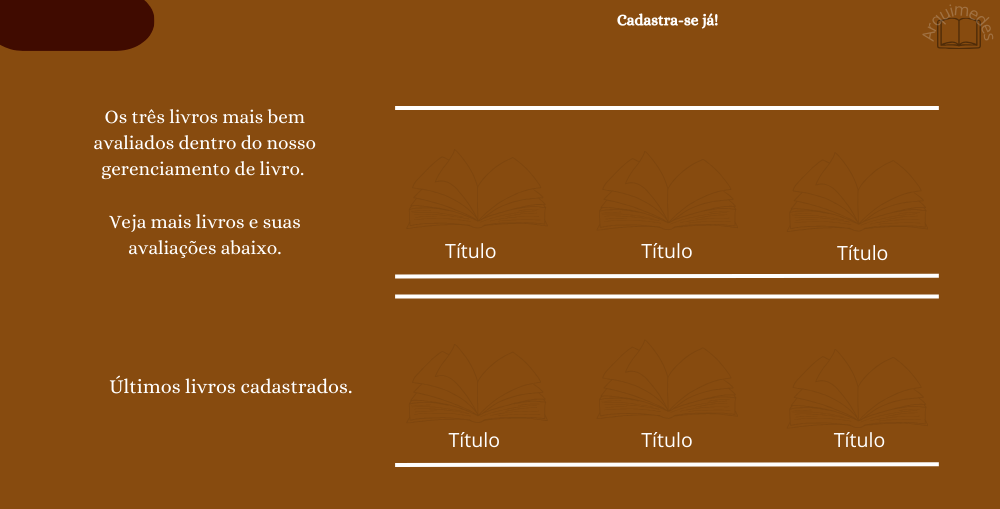
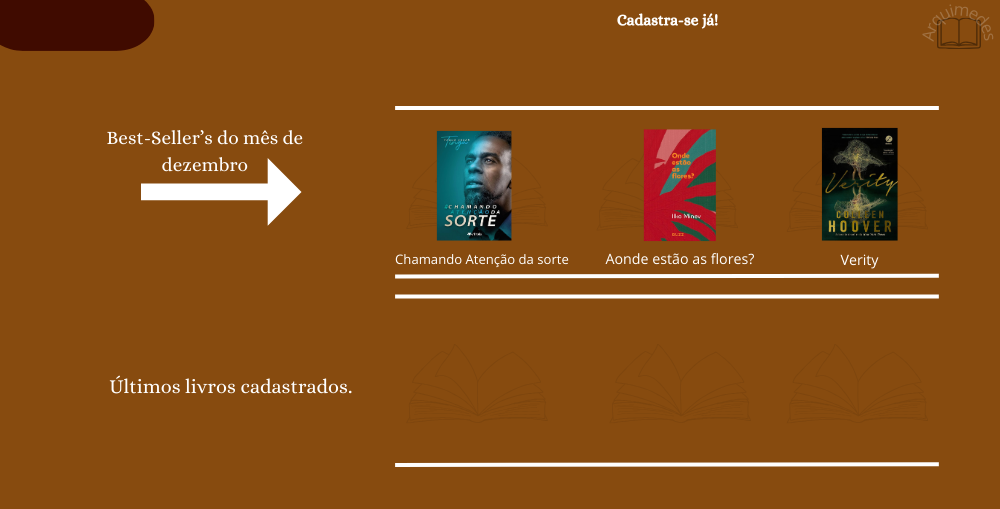
Tela perfil e fundo incial

diff --git a/Projeto A3/A3 Teste/src/main/java/GUI/TelaPerfil.java b/Projeto A3/A3 Teste/src/main/java/GUI/TelaPerfil.java
@@ -1,0 +1,80 @@
+/*
+ * Click nbfs://nbhost/SystemFileSystem/Templates/Licenses/license-default.txt to change this license
+ * Click nbfs://nbhost/SystemFileSystem/Templates/GUIForms/JFrame.java to edit this template
+ */
+package GUI;
+
+/**
+ *
+ * @author paulo
+ */
+public class TelaPerfil extends javax.swing.JFrame {
+
+    /**
+     * Creates new form TelaPerfil
+     */
+    public TelaPerfil() {
+        initComponents();
+    }
+
+    /**
+     * This method is called from within the constructor to initialize the form.
+     * WARNING: Do NOT modify this code. The content of this method is always
+     * regenerated by the Form Editor.
+     */
+    @SuppressWarnings("unchecked")
+    // <editor-fold defaultstate="collapsed" desc="Generated Code">//GEN-BEGIN:initComponents
+    private void initComponents() {
+
+        jLabel1 = new javax.swing.JLabel();
+
+        setDefaultCloseOperation(javax.swing.WindowConstants.EXIT_ON_CLOSE);
+        getContentPane().setLayout(null);
+
+        jLabel1.setIcon(new javax.swing.ImageIcon("C:\\Users\\paulo\\Downloads\\A3 - PSC - Modelagem\\Imagens\\fundoPerfil.png")); // NOI18N
+        jLabel1.setText("jLabel1");
+        getContentPane().add(jLabel1);
+        jLabel1.setBounds(0, 0, 1000, 500);
+
+        pack();
+    }// </editor-fold>//GEN-END:initComponents
+
+    /**
+     * @param args the command line arguments
+     */
+    public static void main(String args[]) {
+        /* Set the Nimbus look and feel */
+        //<editor-fold defaultstate="collapsed" desc=" Look and feel setting code (optional) ">
+        /* If Nimbus (introduced in Java SE 6) is not available, stay with the default look and feel.
+         * For details see http://download.oracle.com/javase/tutorial/uiswing/lookandfeel/plaf.html 
+         */
+        try {
+            for (javax.swing.UIManager.LookAndFeelInfo info : javax.swing.UIManager.getInstalledLookAndFeels()) {
+                if ("Nimbus".equals(info.getName())) {
+                    javax.swing.UIManager.setLookAndFeel(info.getClassName());
+                    break;
+                }
+            }
+        } catch (ClassNotFoundException ex) {
+            java.util.logging.Logger.getLogger(TelaPerfil.class.getName()).log(java.util.logging.Level.SEVERE, null, ex);
+        } catch (InstantiationException ex) {
+            java.util.logging.Logger.getLogger(TelaPerfil.class.getName()).log(java.util.logging.Level.SEVERE, null, ex);
+        } catch (IllegalAccessException ex) {
+            java.util.logging.Logger.getLogger(TelaPerfil.class.getName()).log(java.util.logging.Level.SEVERE, null, ex);
+        } catch (javax.swing.UnsupportedLookAndFeelException ex) {
+            java.util.logging.Logger.getLogger(TelaPerfil.class.getName()).log(java.util.logging.Level.SEVERE, null, ex);
+        }
+        //</editor-fold>
+
+        /* Create and display the form */
+        java.awt.EventQueue.invokeLater(new Runnable() {
+            public void run() {
+                new TelaPerfil().setVisible(true);
+            }
+        });
+    }
+
+    // Variables declaration - do not modify//GEN-BEGIN:variables
+    private javax.swing.JLabel jLabel1;
+    // End of variables declaration//GEN-END:variables
+}

diff --git a/Projeto A3/A3 Teste/src/main/java/GUI/TelaInicial.java b/Projeto A3/A3 Teste/src/main/java/GUI/TelaInicial.java
@@ -28,6 +28,9 @@ public class TelaInicial extends javax.swing.JFrame {
 
         btnPerfil = new javax.swing.JButton();
         btnCadastro = new javax.swing.JButton();
+        lblUltimoCadastro1 = new javax.swing.JLabel();
+        lblUltimoCadastro2 = new javax.swing.JLabel();
+        lblUltimoCadastro3 = new javax.swing.JLabel();
         lblFundoInicial = new javax.swing.JLabel();
         jMenuBar1 = new javax.swing.JMenuBar();
         jMenu1 = new javax.swing.JMenu();
@@ -51,6 +54,18 @@ public class TelaInicial extends javax.swing.JFrame {
         btnCadastro.setText("Cadastrar");
         getContentPane().add(btnCadastro);
         btnCadastro.setBounds(620, 30, 90, 23);
+
+        lblUltimoCadastro1.setText("Livro recente 1");
+        getContentPane().add(lblUltimoCadastro1);
+        lblUltimoCadastro1.setBounds(410, 330, 130, 90);
+
+        lblUltimoCadastro2.setText("Livro recente 2");
+        getContentPane().add(lblUltimoCadastro2);
+        lblUltimoCadastro2.setBounds(607, 346, 140, 70);
+
+        lblUltimoCadastro3.setText("Livro recente 3");
+        getContentPane().add(lblUltimoCadastro3);
+        lblUltimoCadastro3.setBounds(787, 346, 140, 70);
 
         lblFundoInicial.setIcon(new javax.swing.ImageIcon("C:\\Users\\paulo\\Downloads\\A3 - PSC - Modelagem\\Imagens\\fundoInicial.png")); // NOI18N
         lblFundoInicial.setText("jLabel1");
@@ -121,6 +136,9 @@ public class TelaInicial extends javax.swing.JFrame {
     private javax.swing.JMenu jMenu2;
     private javax.swing.JMenuBar jMenuBar1;
     private javax.swing.JLabel lblFundoInicial;
+    private javax.swing.JLabel lblUltimoCadastro1;
+    private javax.swing.JLabel lblUltimoCadastro2;
+    private javax.swing.JLabel lblUltimoCadastro3;
     private javax.swing.JMenuItem menuCadastrarLivro;
     private javax.swing.JMenuItem menuFazerResenha;
     // End of variables declaration//GEN-END:variables
